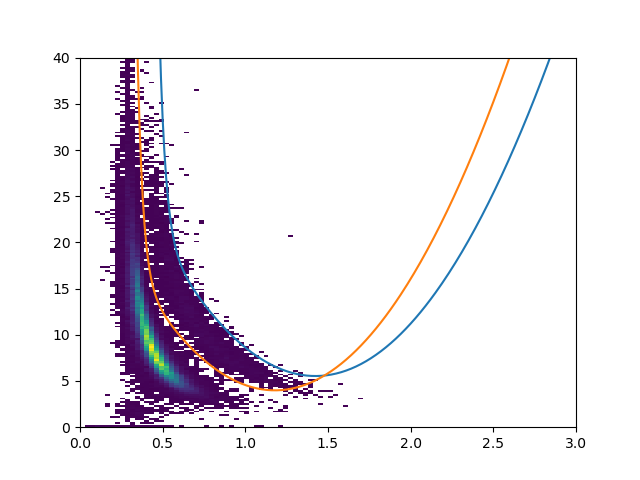
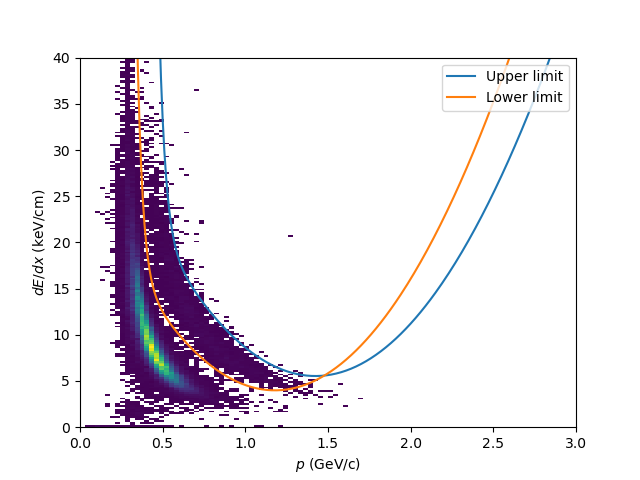
Add labels to plot

Changed region(s): [[0.6875, 0.125, 0.875, 0.25], [0.0312, 0.4062, 0.0625, 0.625], [0.4688, 0.9375, 0.5625, 1.0]]

diff --git a/plot/phi_d/d_dE_dx/fit.py b/plot/phi_d/d_dE_dx/fit.py
@@ -188,14 +188,17 @@ hist_data.plotHeatmap(label="Data")
 p_points = np.arange(0.25, 3, 0.01)
 
 dE_points = exponential(p_points, *popt)
-plt.plot(p_points, dE_points)
+plt.plot(p_points, dE_points, label="Upper limit")
 
 dE_points = np.exp(-29.68353898*p_points+13.50623694)+17.88279645*p_points*p_points-42.15473796*p_points+28.83200736
-plt.plot(p_points, dE_points)
+plt.plot(p_points, dE_points, label="Lower limit")
 
 # plt.plot(np.ones(400)*0.35, np.linspace(0, 40, 400))
 # plt.plot(np.ones(400)*1.30, np.linspace(0, 40, 400))
 # plt.plot(points[:,0], points[:,1], 'r.', label="Data points")
 plt.ylim(0,40)
+plt.xlabel(r'$p$ (GeV/c)')
+plt.ylabel(r'$dE/dx$ (keV/cm)')
+plt.legend(loc='upper right')
 
 plt.savefig("fit.png")
